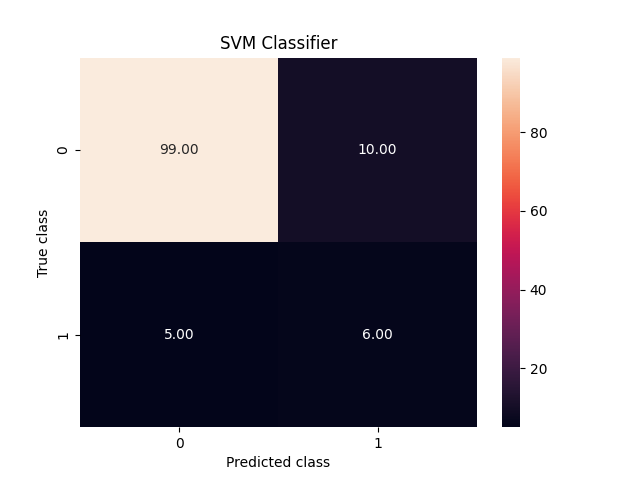
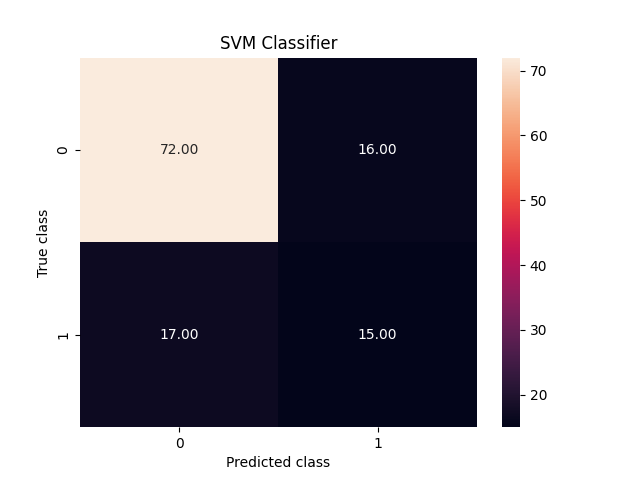
trying to fix 32 players data

diff --git a/linearSVM.py b/linearSVM.py
@@ -10,16 +10,16 @@ import matplotlib.pyplot as plt
 import seaborn as sns
 
 # get data
-train = pd.read_csv('data/train.csv')
-test = pd.read_csv('data/test.csv')
-train = train.drop(columns=['Unnamed: 0'])
-test = test.drop(columns=['Unnamed: 0'])
+train32 = pd.read_csv('data/train32.csv')
+test32 = pd.read_csv('data/test32.csv')
+train32 = train32.drop(columns=['Unnamed: 0'])
+test32 = test32.drop(columns=['Unnamed: 0'])
 
 # split data
-y_train = train["target"]
-x_train = train.drop(columns=["target"])
-y_test = test["target"]
-x_test = test.drop(columns=["target"])
+y_train = train32["target"]
+x_train = train32.drop(columns=["target"])
+y_test = test32["target"]
+x_test = test32.drop(columns=["target"])
 
 # scale data
 sc = StandardScaler()
@@ -45,7 +45,7 @@ df['probability0'] = prob[:, 0]
 df['probability1'] = prob[:, 1]
 df1 = pd.concat([df["true"], df["predicted"], df["probability0"], df["probability1"]], axis=1)
 final_df = df1.sort_values(by=['probability1'], ascending=False)
-print(final_df.head(16))
+print(final_df.head(32))
 
 # confusion matrix
 svm_cm = confusion_matrix(y_pred, y_test, labels=model1.classes_)
@@ -71,14 +71,14 @@ plt.savefig('SVM_images/linearSVM_ROC')
 plt.close()
 
 # hyperparameter tuning
-# the best parameter is C = 100
+# the best parameter is C = 100 for 16 and C = 10 for 32
 param_grid = {'C': [0.1, 1, 10, 100]}
 grid = GridSearchCV(svm.SVC(kernel='linear'), param_grid, scoring='recall', refit=True, verbose=3)
-#grid.fit(x_train, y_train)
-#print(grid.best_params_)
+grid.fit(x_train, y_train)
+print(grid.best_params_)
 
 # linear SVM with hyperparameter tuning
-model2 = svm.SVC(C=100, kernel='linear', probability=True)
+model2 = svm.SVC(C=10, kernel='linear', probability=True)
 model2.fit(x_train, y_train)
 y_pred = model2.predict(x_test)
 prob = model2.predict_proba(x_test)
@@ -95,7 +95,7 @@ df['probability0'] = prob[:, 0]
 df['probability1'] = prob[:, 1]
 df1 = pd.concat([df["true"], df["predicted"], df["probability0"], df["probability1"]], axis=1)
 final_df = df1.sort_values(by=['probability1'], ascending=False)
-print(final_df.head(16))
+print(final_df.head(32))
 
 # final confusion matrix
 svm_cm = confusion_matrix(y_pred, y_test, labels=model2.classes_)

diff --git a/polySVM.py b/polySVM.py
@@ -12,16 +12,16 @@ import matplotlib.pyplot as plt
 import seaborn as sns
 
 # get data
-train = pd.read_csv('data/train.csv')
-test = pd.read_csv('data/test.csv')
-train = train.drop(columns=['Unnamed: 0'])
-test = test.drop(columns=['Unnamed: 0'])
+train32 = pd.read_csv('data/train32.csv')
+test32 = pd.read_csv('data/test32.csv')
+train32 = train32.drop(columns=['Unnamed: 0'])
+test32 = test32.drop(columns=['Unnamed: 0'])
 
 # split data
-y_train = train["target"]
-x_train = train.drop(columns=["target"])
-y_test = test["target"]
-x_test = test.drop(columns=["target"])
+y_train = train32["target"]
+x_train = train32.drop(columns=["target"])
+y_test = test32["target"]
+x_test = test32.drop(columns=["target"])
 
 # scale data
 sc = StandardScaler()
@@ -77,14 +77,15 @@ plt.savefig('SVM_images/polySVM_ROC')
 plt.close()
 
 # hyperparameter tuning
-# the best parameters are C = 0.1 and gamma = 1 and degree = 3
+# the best parameters are C = 0.1 and gamma = 1 and degree = 3 for 16
+# C = 1, degree = 2, and gamma = 1 for 32
 param_grid = {'C': [0.1, 1, 10, 100], 'gamma': [0.0001, 0.001, 0.01, 0.1, 1], 'degree': [0, 1, 2, 3, 4, 5, 6]}
 grid = GridSearchCV(svm.SVC(kernel='poly'), param_grid, scoring='recall', refit=True, verbose=3)
-#grid.fit(x_train, y_train)
-#print(grid.best_params_)
+grid.fit(x_train, y_train)
+print(grid.best_params_)
 
 # polynomial SVM with hyperparameter tuning
-model2 = svm.SVC(C=0.1, gamma=1, degree=3, kernel='poly', probability=True)
+model2 = svm.SVC(C=1, gamma=1, degree=2, kernel='poly', probability=True)
 model2.fit(x_train, y_train)
 y_pred = model2.predict(x_test)
 prob = model2.predict_proba(x_test)

diff --git a/rbfSVM.py b/rbfSVM.py
@@ -12,16 +12,16 @@ import matplotlib.pyplot as plt
 import seaborn as sns
 
 # get data
-train = pd.read_csv('data/train.csv')
-test = pd.read_csv('data/test.csv')
-train = train.drop(columns=['Unnamed: 0'])
-test = test.drop(columns=['Unnamed: 0'])
+train32 = pd.read_csv('data/train32.csv')
+test32 = pd.read_csv('data/test32.csv')
+train32 = train32.drop(columns=['Unnamed: 0'])
+test32 = test32.drop(columns=['Unnamed: 0'])
 
 # split data
-y_train = train["target"]
-x_train = train.drop(columns=["target"])
-y_test = test["target"]
-x_test = test.drop(columns=["target"])
+y_train = train32["target"]
+x_train = train32.drop(columns=["target"])
+y_test = test32["target"]
+x_test = test32.drop(columns=["target"])
 
 # scale data
 sc = StandardScaler()
@@ -77,14 +77,15 @@ plt.savefig('SVM_images/rbfSVM_ROC')
 plt.close()
 
 # hyperparameter tuning
-# the best parameters are C = 10 and gamma = 0.1
+# the best parameters are C = 10 and gamma = 0.1 for 16
+# C = 100 and gamma = 0.01 for 32
 param_grid = {'C': [0.1, 1, 10, 100], 'gamma': [0.0001, 0.001, 0.01, 0.1, 1]}
 grid = GridSearchCV(svm.SVC(kernel='rbf'), param_grid, scoring='recall', refit=True, verbose=3)
-#grid.fit(x_train, y_train)
-#print(grid.best_params_)
+grid.fit(x_train, y_train)
+print(grid.best_params_)
 
 # rbf SVM with hyperparameter tuning
-model2 = svm.SVC(C=10, gamma=0.1, kernel='rbf', probability=True)
+model2 = svm.SVC(C=100, gamma=0.01, kernel='rbf', probability=True)
 model2.fit(x_train, y_train)
 y_pred = model2.predict(x_test)
 prob = model2.predict_proba(x_test)

diff --git a/data_prep.py b/data_prep.py
@@ -12,6 +12,11 @@ top32_2018 = list(results2018[results2018["Round"] == "2nd Round"]["WRank"])
 top16_2019 = list(results2019[results2019["Round"] == "3rd Round"]["WRank"])
 top32_2019 = list(results2019[results2019["Round"] == "2nd Round"]["WRank"])
 
+train16['target'] = train16['rank'].apply(lambda x: 1 if x in top16_2018 else 0)
+train32['target'] = train32['rank'].apply(lambda x: 1 if x in top32_2018 else 0)
+test16['target'] = test16['rank'].apply(lambda x: 1 if x in top16_2019 else 0)
+test32['target'] = test32['rank'].apply(lambda x: 1 if x in top32_2019 else 0)
+
 columns_to_remove = ["name", "year", "service_games_played", "return_games_played", "total_service_points_won",
                      "return_points_won", "total_points_won"]
 
@@ -51,11 +56,6 @@ train16 = train16[~(train16['aces'] == 0)]
 train32 = train32[~(train32['aces'] == 0)]
 test16 = test16[~(test16['aces'] == 0)]
 test32 = test32[~(test32['aces'] == 0)]
-
-train16['target'] = train16['rank'].apply(lambda x: 1 if x in top16_2018 else 0)
-train32['target'] = train32['rank'].apply(lambda x: 1 if x in top32_2018 else 0)
-test16['target'] = test16['rank'].apply(lambda x: 1 if x in top16_2019 else 0)
-test32['target'] = test32['rank'].apply(lambda x: 1 if x in top32_2019 else 0)
 
 derived_attributes = ["aces", "double_faults", "break_points_opportunities", "break_points_faced"]
 
